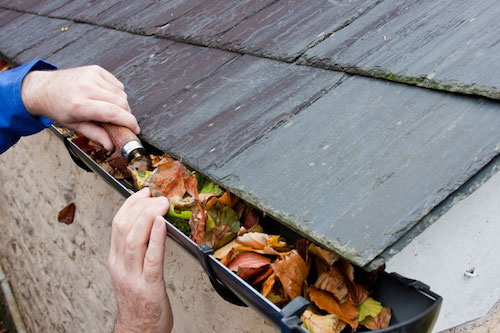
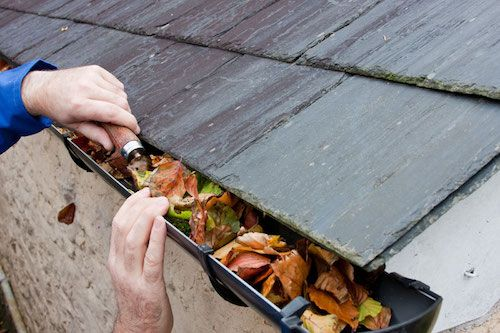
issue(optimize-speed): thumbnails for service carousel

diff --git a/src/components/Services/Service.js b/src/components/Services/Service.js
@@ -27,13 +27,13 @@ export default class Service extends Component {
   }
 
   render () {
-    const { description, img, path, title, ...props } = this.props
+    const { description, path, thumbnail, title, ...props } = this.props
     return (
       <Base {...props}>
         <Link to={path}>
           <div style={{ maxHeight: this.imgMaxHeight(), overflow: 'hidden' }}>
             <img
-              src={`${STATIC_ASSETS}${img}`}
+              src={`${STATIC_ASSETS}${thumbnail}`}
               style={{
                 maxWidth: '100%',
                 width: '100%'
